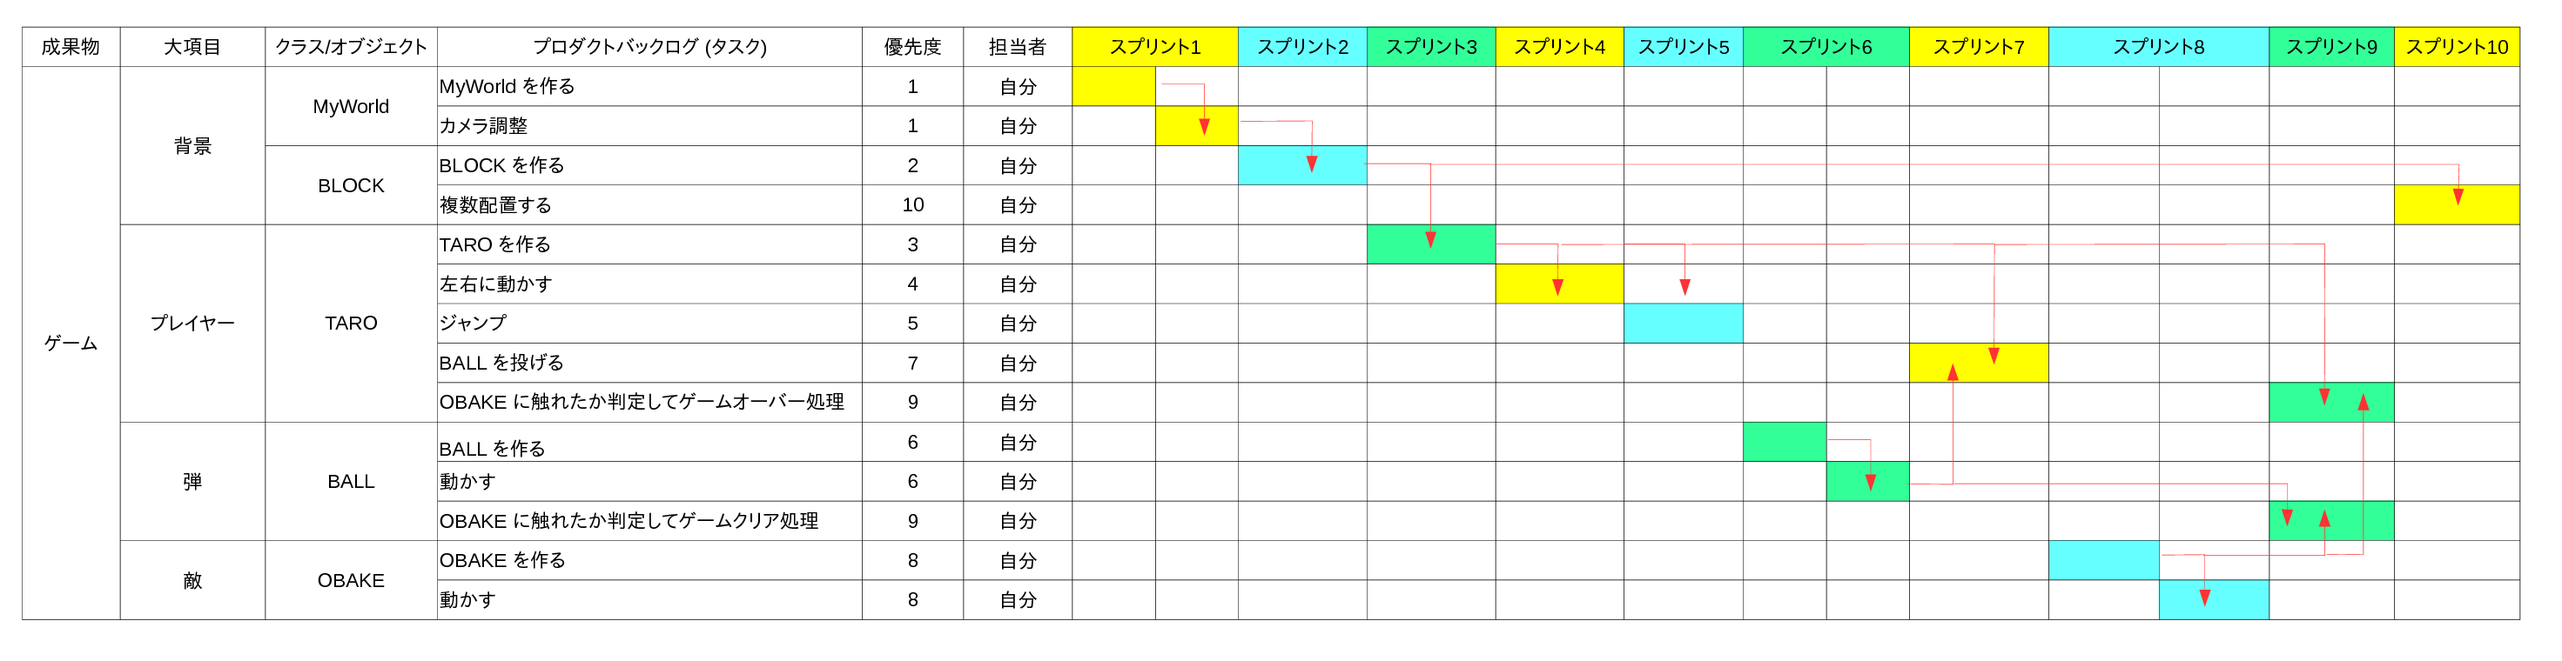
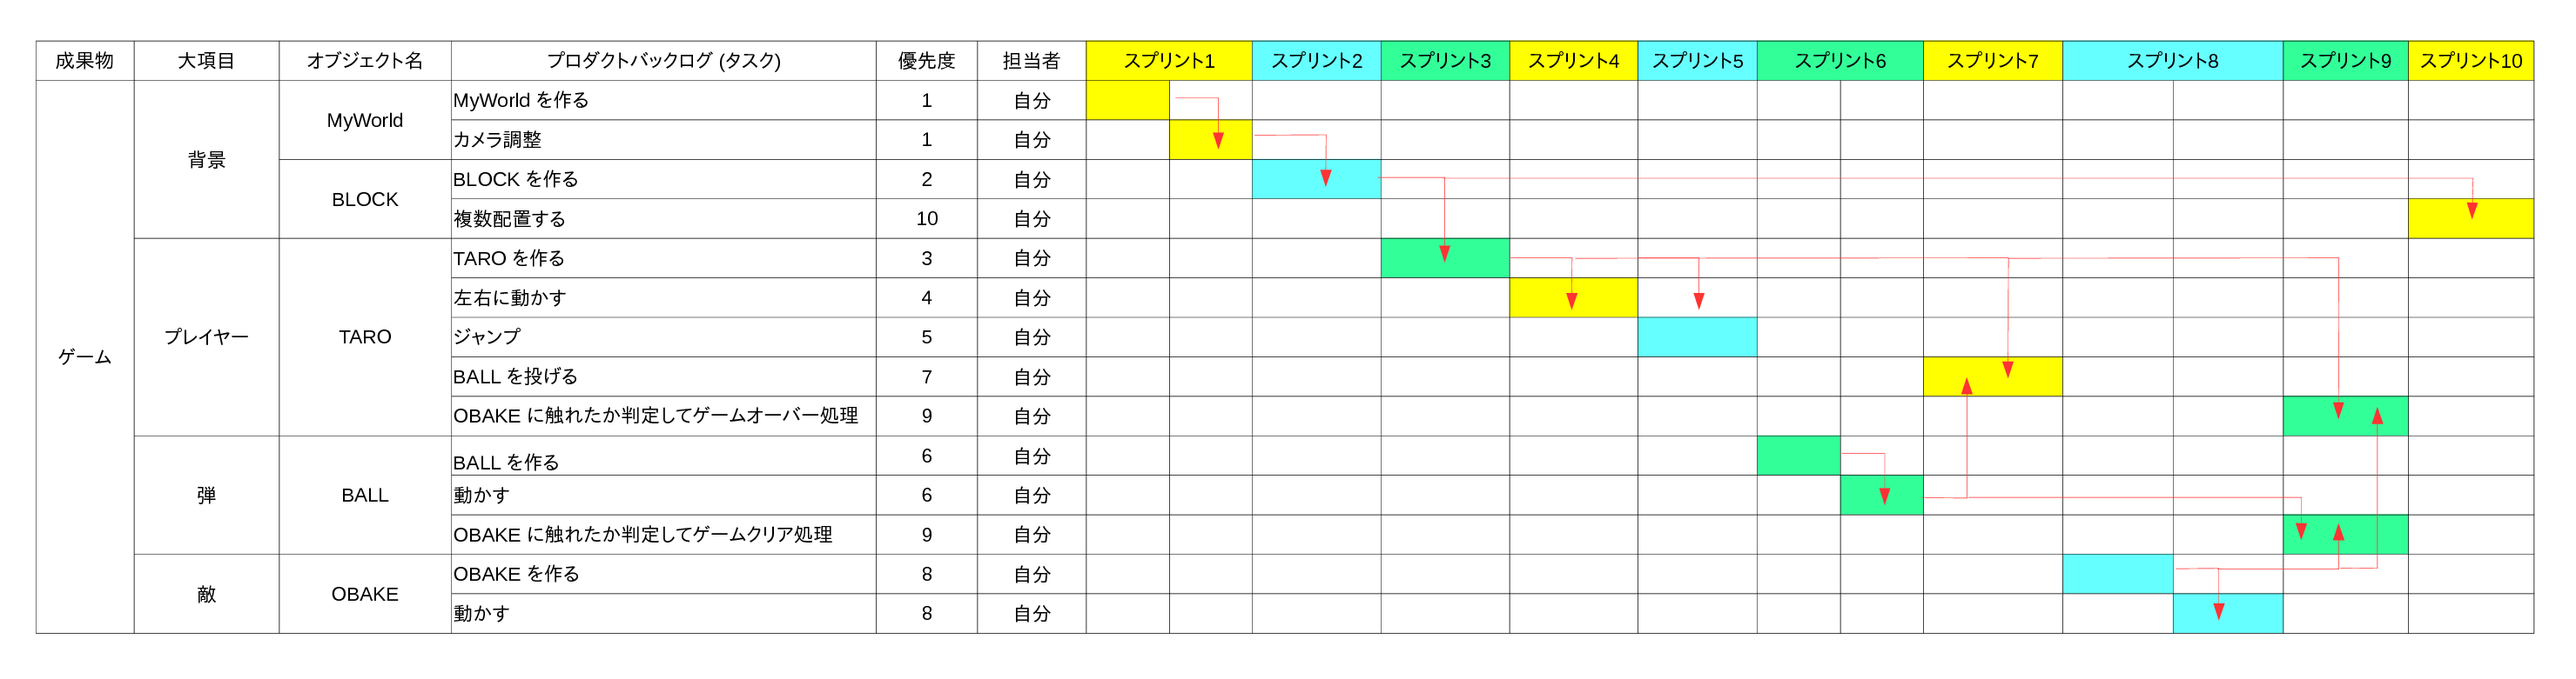
ood-basic 更新

diff --git a/docs/activity/ood-basic/index.html b/docs/activity/ood-basic/index.html
@@ -147,33 +147,7 @@ Unity2D 版
 </tr>
 
 <tr><td class="center">4-7</td>
-<td><input type="checkbox">[2] オブジェクト指向開発演習(1)
-<br>
-<br>
-※ Greenfoot 版
-</td>
-<td>
-<ul>
-<lI><a href="./text03/page01.html">リリース プランニング</a></li>
-<li><a href="./text03/page02.html">スプリント 1</a></li>
-<li><a href="./text03/page03.html">スプリント 2</a></li>
-<li><a href="./text03/page04.html">スプリント 3</a></li>
-<li><a href="./text03/page05.html">スプリント 4</a></li>
-<li><a href="./text03/page06.html">スプリント 5</a></li>
-<li><a href="./text03/page07.html">スプリント 6</a></li>
-<li><a href="./text03/page08.html">スプリント 7</a></li>
-<li><a href="./text03/page09.html">スプリント 8</a></li>
-<li><a href="./text03/practice.html">演習</a>
-</ul>
-</td>
-</tr>
-
-<tr><td class="center">4-7</td>
-<td><input type="checkbox">[2] オブジェクト指向開発演習(1)
-<br>
-<br>
-※ Unity2D 版
-</td>
+<td><input type="checkbox">[2] オブジェクト指向開発演習(1)</td>
 <td>
 <ul>
 <lI><a href="./text04/page01.html">リリース プランニング</a></li>
@@ -186,6 +160,26 @@ Unity2D 版
 <li><a href="./text04/page08.html">スプリント 7</a></li>
 <li><a href="./text04/page09.html">スプリント 8</a></li>
 <li><a href="./text04/practice.html">演習</a>
+</ul>
+</td>
+</tr>
+
+<tr><td class="center">4-7</td>
+<td><input type="checkbox">[2] オブジェクト指向開発演習(2)</td>
+<td>
+<ul>
+<lI><a href="./text05/page01.html">リリース プランニング</a></li>
+<li><a href="./text05/page02.html">スプリント 1</a></li>
+<li><a href="./text05/page03.html">スプリント 2</a></li>
+<li><a href="./text05/page04.html">スプリント 3</a></li>
+<li><a href="./text05/page05.html">スプリント 4</a></li>
+<li><a href="./text05/page06.html">スプリント 5</a></li>
+<li><a href="./text05/page07.html">スプリント 6</a></li>
+<li><a href="./text05/page08.html">スプリント 7</a></li>
+<li><a href="./text05/page09.html">スプリント 8</a></li>
+<li><a href="./text05/page10.html">スプリント 9</a></li>
+<li><a href="./text05/page11.html">スプリント 10</a></li>
+<li><a href="./text05/practice.html">演習</a>
 </ul>
 </td>
 </tr>

diff --git a/docs/activity/ood-basic/text05/page01.html b/docs/activity/ood-basic/text05/page01.html
@@ -20,7 +20,7 @@
 <h2><script>GetTitle()</script></h2>
 
 <p>
-ここでは別のミニゲームを開発してみましょう。
+ここでは違うミニゲームを開発してみましょう。
 </p>
 
 <h3>
@@ -136,17 +136,17 @@ PC: 低スペック
 </div>
 
 <p>
-クラス/オブジェクト設計は以下の通りです。
+オブジェクト設計は以下の通りです。
 </p>
 
 <div class="info">
-<input type="checkbox"><b>クラス/オブジェクト設計</b>
+<input type="checkbox"><b>オブジェクト設計</b>
 
 <p>
 </p>
 
 <table>
-<tr><th>クラス/オブジェクト名</th><th>内容</th></tr>
+<tr><th>オブジェクト名</th><th>内容</th></tr>
 
 <tr><td>
 MyWorld
@@ -233,6 +233,6 @@ WBS は以下の通りです。バックログも中に含まれています。
 </div>
 
 <br>
-<script>PreNext(1,12)</script>
+<script>PreNext(1,11)</script>
 </body>
 </html>
